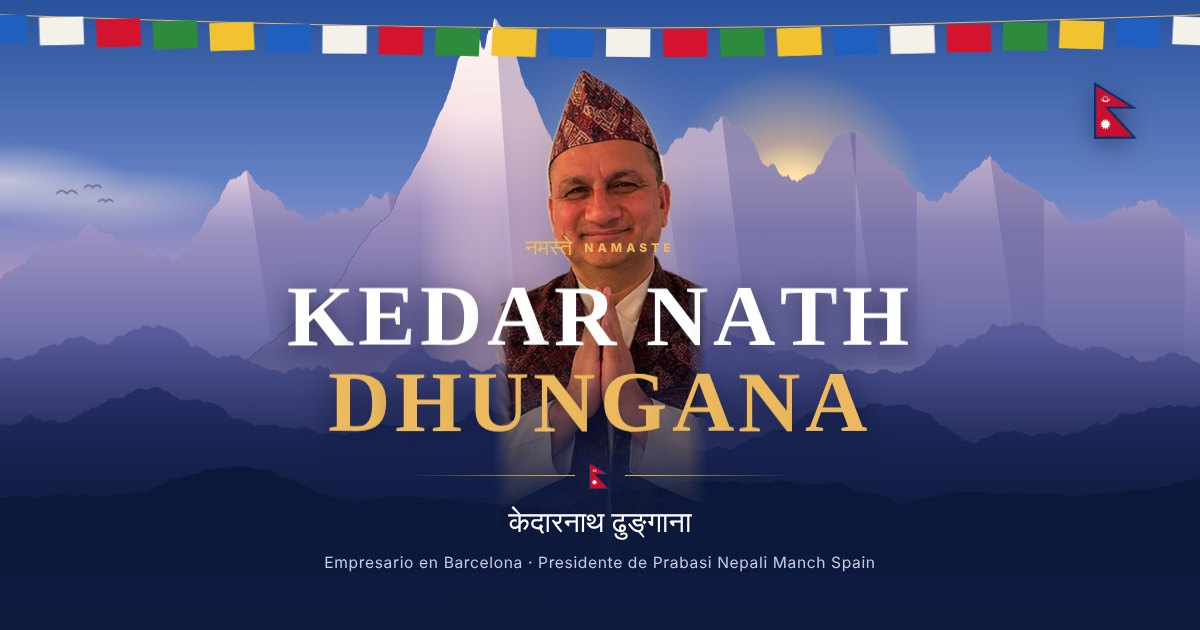
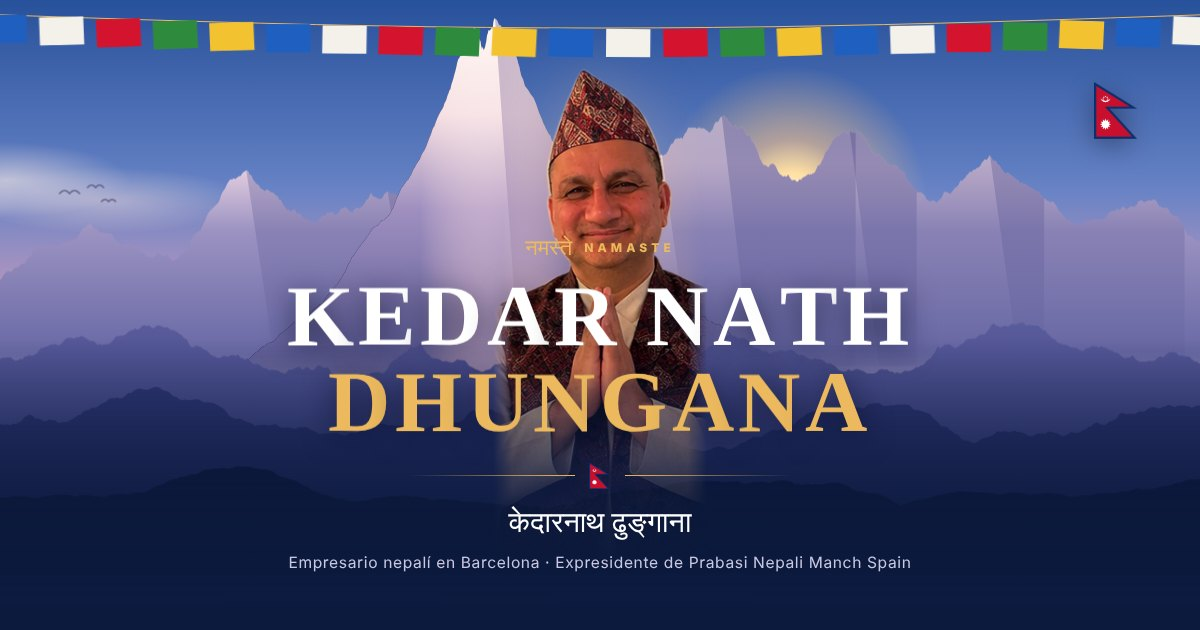
Add files via upload

Changed region(s): [[0.2467, 0.8746, 0.7708, 0.9048]]

diff --git a/index.html b/index.html
@@ -4,7 +4,7 @@
 <meta charset="utf-8">
 <meta name="viewport" content="width=device-width, initial-scale=1, viewport-fit=cover">
 <title>Kedar Nath Dhungana · Empresario nepalí en Barcelona</title>
-<meta name="description" content="Kedar Nath Dhungana, empresario nepalí en Barcelona: Supermercat Industria, Atithi, Aruku y Kobe. Presidente de Prabasi Nepali Manch Spain (Overseas Nepali Forum – Spain).">
+<meta name="description" content="Kedar Nath Dhungana, empresario nepalí en Barcelona: Supermercat Industria, Atithi, Aruku y Kobe. Expresidente de Prabasi Nepali Manch Spain (Overseas Nepali Forum – Spain).">
 <meta name="theme-color" content="#0b1a3d">
 <meta name="color-scheme" content="light">
 <link rel="canonical" href="https://gatsbys-stocks.github.io/kedar-dhungana/">
@@ -14,7 +14,7 @@
 <meta property="og:type" content="profile">
 <meta property="og:locale" content="es_ES">
 <meta property="og:title" content="Kedar Nath Dhungana">
-<meta property="og:description" content="Empresario nepalí en Barcelona · Presidente de Prabasi Nepali Manch Spain">
+<meta property="og:description" content="Empresario nepalí en Barcelona · Propietario de Buddha Bhumi · Expresidente de Prabasi Nepali Manch Spain">
 <meta property="og:url" content="https://gatsbys-stocks.github.io/kedar-dhungana/">
 <meta property="og:image" content="https://gatsbys-stocks.github.io/kedar-dhungana/img/og-kedar.jpg">
 <meta property="og:image:width" content="1200">
@@ -37,6 +37,10 @@
   "url": "https://gatsbys-stocks.github.io/kedar-dhungana/",
   "image": "https://gatsbys-stocks.github.io/kedar-dhungana/img/kedar.webp",
   "jobTitle": "Empresario",
+  "sameAs": [
+    "https://www.instagram.com/kndhungana/",
+    "https://www.tiktok.com/@kedardhungana4"
+  ],
   "email": "mailto:kndhungana2017@gmail.com",
   "telephone": "+34632787457",
   "homeLocation": {
@@ -55,7 +59,7 @@
     {
       "@type": "Organization",
       "name": "Prabasi Nepali Manch Spain (Overseas Nepali Forum – Spain)",
-      "roleName": "Presidente"
+      "roleName": "Expresidente"
     },
     {
       "@type": "Organization",
@@ -149,7 +153,7 @@
 <polygon points="25.00,80.00 26.94,84.76 31.00,81.61 30.30,86.70 35.39,86.00 32.24,90.06 37.00,92.00 32.24,93.94 35.39,98.00 30.30,97.30 31.00,102.39 26.94,99.24 25.00,104.00 23.06,99.24 19.00,102.39 19.70,97.30 14.61,98.00 17.76,93.94 13.00,92.00 17.76,90.06 14.61,86.00 19.70,86.70 19.00,81.61 23.06,84.76" fill="#fff"/>
 </svg></div>
       <div class="deva-name deva" id="devaName">केदारनाथ ढुङ्गाना</div>
-      <p class="tagline" id="tagline">Empresario en Barcelona · Presidente de Prabasi Nepali Manch Spain</p>
+      <p class="tagline" id="tagline">Empresario nepalí en Barcelona · Expresidente de Prabasi Nepali Manch Spain</p>
     </div>
     <div class="scroll-hint" id="hint">Desliza<i></i></div>
   </div>
@@ -161,7 +165,7 @@
       <div class="kicker"><svg viewBox="0 0 26 14" aria-hidden="true"><path d="M0 14 8 3l4 5 3-4 11 10Z" fill="currentColor"/><path d="M8 3 6 6h4ZM15 4l-1.6 2.1h3.2Z" fill="#fff" opacity=".85"/></svg>Sobre Kedar</div>
       <h2>De Pokhara a Barcelona</h2>
       <p class="lead">Kedar Nath Dhungana es un empresario nepalí afincado en Barcelona. Originario de Pokhara y formado en la Universidad Tribhuvan, hoy está al frente de cuatro locales en la ciudad: el supermercado nepalí Supermercat Industria, el restaurante indio Atithi y los restaurantes japoneses sin gluten Aruku y Kobe.</p>
-      <p class="lead">Es además presidente de Prabasi Nepali Manch Spain (Overseas Nepali Forum – Spain) y expresidente de Kaski Samaj Spain, y comparte a diario contenido sobre la cultura y la comunidad nepalí en España.</p>
+      <p class="lead">En la comunidad nepalí ha sido presidente de Prabasi Nepali Manch Spain (Overseas Nepali Forum – Spain) y de Kaski Samaj Spain. En TikTok e Instagram comparte a diario contenido sobre la cultura y la comunidad nepalí en España.</p>
     </div>
     <dl class="facts reveal">
       <div class="fact"><dt>Ciudad</dt><dd>Barcelona, España</dd></div>
@@ -200,7 +204,7 @@
     </div>
     <div class="community">
       <article class="comm reveal">
-        <div class="role">Presidente</div>
+        <div class="role">Expresidente</div>
         <h3>Prabasi Nepali Manch Spain</h3>
         <div class="sub">Overseas Nepali Forum – Spain · Fundado en 2007</div>
         <div class="deva">प्रवासी नेपाली मञ्च स्पेन</div>
@@ -223,6 +227,10 @@
       <h2>Hablemos</h2>
       <ul class="cinfo" id="contactoInfo"><!-- js/config.js → CONTACTO --></ul>
       <div class="btns" id="contactoBotones"></div>
+      <div class="redes">
+        <div class="kicker redes-k">Síguele en redes</div>
+        <div class="redes-list" id="redes"><!-- js/config.js → REDES --></div>
+      </div>
     </div>
   </div>
 </section>

diff --git a/js/main.js b/js/main.js
@@ -22,6 +22,7 @@
     map: '<svg viewBox="0 0 24 24" fill="none" stroke="currentColor" stroke-width="2" aria-hidden="true"><path d="M21 10c0 7-9 13-9 13S3 17 3 10a9 9 0 0 1 18 0z"/><circle cx="12" cy="10" r="3"/></svg>',
     mail: '<svg viewBox="0 0 24 24" fill="none" stroke="currentColor" stroke-width="2" aria-hidden="true"><rect x="3" y="5" width="18" height="14" rx="2"/><path d="m3 7 9 6 9-6"/></svg>',
     wa: '<svg viewBox="0 0 24 24" fill="currentColor" aria-hidden="true"><path d="M12 2a10 10 0 0 0-8.6 15.1L2 22l5-1.3A10 10 0 1 0 12 2zm0 18.2c-1.5 0-3-.4-4.3-1.2l-.3-.2-3 .8.8-2.9-.2-.3A8.2 8.2 0 1 1 12 20.2zm4.5-6.1c-.2-.1-1.5-.7-1.7-.8-.2-.1-.4-.1-.6.1l-.8 1c-.1.2-.3.2-.5.1a6.7 6.7 0 0 1-3.3-2.9c-.3-.4.2-.4.7-1.3.1-.2 0-.3 0-.4l-.8-1.8c-.2-.5-.4-.4-.6-.4h-.5c-.2 0-.4.1-.7.3-.2.3-.9.9-.9 2.2s.9 2.5 1 2.7c.1.2 1.8 2.8 4.4 3.9 1.6.7 2.3.8 3.1.6.5-.1 1.5-.6 1.7-1.2.2-.6.2-1.1.2-1.2-.1-.1-.2-.2-.5-.3z"/></svg>',
+    tt: '<svg viewBox="0 0 24 24" fill="currentColor" aria-hidden="true"><path d="M16.6 5.8A4.3 4.3 0 0 1 15.5 3h-3.1v12.4a2.6 2.6 0 1 1-2.6-2.6c.3 0 .5 0 .8.1V9.7a5.8 5.8 0 0 0-.8-.1 5.8 5.8 0 1 0 5.8 5.8V9.1a7.4 7.4 0 0 0 4.3 1.4V7.4a4.3 4.3 0 0 1-3.3-1.6z"/></svg>',
     fb: '<svg viewBox="0 0 24 24" fill="currentColor" aria-hidden="true"><path d="M13.5 22v-8h2.7l.4-3.2h-3.1V8.8c0-.9.3-1.5 1.6-1.5h1.7V4.4c-.3 0-1.3-.1-2.5-.1-2.4 0-4.1 1.5-4.1 4.2v2.3H7.5V14h2.7v8h3.3z"/></svg>'
   };
 
@@ -74,13 +75,27 @@
       lineas.push(`<li>${ICON.mail}<a href="mailto:${esc(c.email)}">${esc(c.email)}</a></li>`);
       botones.push(`<a class="btn ghost" href="mailto:${esc(c.email)}">${ICON.mail}Email</a>`);
     }
-    if (c.facebook) botones.push(`<a class="btn ghost" href="${esc(c.facebook)}" ${externo}>${ICON.fb}Facebook</a>`);
     if (info) info.innerHTML = lineas.join("");
     if (btns) btns.innerHTML = botones.join("");
   }
 
+  /* ---------- 1c. Redes ---------- */
+  function pintarRedes() {
+    const caja = $("redes");
+    if (!caja || typeof REDES === "undefined") return;
+    const r = REDES, items = [];
+    const limpio = (u) => String(u).trim().replace(/^@/, "");
+    if (r.tiktok) items.push(`<a class="red red-tt" href="https://www.tiktok.com/@${esc(limpio(r.tiktok))}" ${externo}>${ICON.tt}<span><b>TikTok</b>@${esc(limpio(r.tiktok))}</span></a>`);
+    if (r.instagram) items.push(`<a class="red red-ig" href="https://www.instagram.com/${esc(limpio(r.instagram))}/" ${externo}>${ICON.ig}<span><b>Instagram</b>@${esc(limpio(r.instagram))}</span></a>`);
+    const fb = r.facebook || (typeof CONTACTO !== "undefined" && CONTACTO.facebook);
+    if (fb) items.push(`<a class="red red-fb" href="${esc(fb)}" ${externo}>${ICON.fb}<span><b>Facebook</b>Kedar Dhungana</span></a>`);
+    caja.innerHTML = items.join("");
+    if (!items.length) caja.parentElement.hidden = true;
+  }
+
   pintarLocales();
   pintarContacto();
+  pintarRedes();
 
   /* ---------- 2. Banderas de oración (lungta) ---------- */
   (function banderas() {

diff --git a/js/config.js b/js/config.js
@@ -9,8 +9,15 @@
 const CONTACTO = {
   telefono: "+34 632 787 457",          // como se ve en la web
   whatsapp: "34632787457",              // solo números, con prefijo 34
-  email:    "kndhungana2017@gmail.com",
-  facebook: ""                          // ej: "https://www.facebook.com/kedar.dhungana"
+  email:    "kndhungana2017@gmail.com"
+};
+
+/* Redes sociales de Kedar (bloque "Síguele en redes" de Contacto).
+   Pon solo el usuario, sin @. Si se deja vacío, esa red no sale. */
+const REDES = {
+  tiktok:    "kedardhungana4",
+  instagram: "kndhungana",
+  facebook:  ""                         // enlace completo de su perfil o página
 };
 
 /* Locales. Se pintan en este orden en la sección "Negocios".
@@ -25,7 +32,7 @@ const LOCALES = [
     tipo: "Supermercado nepalí",
     nombre: "Supermercat Industria",
     nombreOriginal: "नेपाली सुपरमार्केट",
-    cargo: "Fundador · Administrador único",
+    cargo: "Propietario · Administrador único (Buddha Bhumi SL)",
     descripcion: "Alimentación nepalí, momos congelados, ollas a presión y arroceras, vaporeras para momos, bebidas y artículos de puja. Envíos desde Barcelona a otras ciudades de Europa.",
     direccion: "C/ Indústria, 124 · 08025 Barcelona",
     mapa: "Carrer de la Indústria 124, 08025 Barcelona",

diff --git a/css/styles.css b/css/styles.css
@@ -221,6 +221,19 @@ footer small{display:block;margin-top:10px;color:#8e93bd;font-size:12px;letter-s
 }
 .linfo a{color:inherit;text-decoration:none;overflow-wrap:anywhere}
 .linfo a:hover{color:var(--crimson)}
+/* Redes */
+.redes{margin-top:34px}
+.redes-k{font-size:11px;margin-bottom:12px}
+.redes-list{display:flex;flex-wrap:wrap;gap:12px}
+.red{display:flex;align-items:center;gap:12px;padding:12px 18px 12px 14px;border-radius:16px;text-decoration:none;color:#fff;
+  background:rgba(255,255,255,.1);border:1px solid rgba(255,255,255,.28);backdrop-filter:blur(6px);transition:transform .3s,background .3s}
+.red:hover{transform:translateY(-2px);background:rgba(255,255,255,.18)}
+.red svg{width:28px;height:28px;flex:none;padding:6px;border-radius:9px;box-sizing:content-box}
+.red span{display:flex;flex-direction:column;line-height:1.25;font-size:14px;font-weight:600}
+.red b{font-size:11px;letter-spacing:.18em;text-transform:uppercase;color:var(--gold);font-weight:800}
+.red-tt svg{background:#000;color:#fff}
+.red-ig svg{background:linear-gradient(45deg,#f9a13a,#e1306c 50%,#833ab4);color:#fff}
+.red-fb svg{background:#1877f2;color:#fff}
 /* Pie */
 footer .legal{display:block;margin-top:18px;color:#6d729d;font-size:11.5px;letter-spacing:.06em}
 /* Accesibilidad: foco visible */

diff --git a/README.md b/README.md
@@ -1,10 +1,10 @@
 # Kedar Nath Dhungana
 
-Web de presentación de **Kedar Nath Dhungana**, empresario nepalí en Barcelona y presidente de Prabasi Nepali Manch Spain (Overseas Nepali Forum – Spain). Es un enlace para compartir: quien lo abre ve quién es, qué locales tiene y cómo contactarle.
+Web de presentación de **Kedar Nath Dhungana**, empresario nepalí en Barcelona, propietario de Buddha Bhumi y expresidente de Prabasi Nepali Manch Spain (Overseas Nepali Forum – Spain). Es un enlace para compartir: quien lo abre ve quién es, qué locales tiene y cómo contactarle.
 
 ## El problema que resolví
 
-Kedar tiene cuatro locales en Barcelona y un cargo en la comunidad nepalí, pero todo estaba repartido en tarjetas de visita, Facebook y registros de empresas. Necesitaba un solo enlace profesional que se pudiera mandar por WhatsApp y que reuniera su perfil, sus negocios y su contacto, con una entrada que se recuerde.
+Kedar tiene cuatro locales en Barcelona y un cargo en la comunidad nepalí, pero todo estaba repartido en tarjetas de visita, TikTok, Instagram, Facebook y registros de empresas. Necesitaba un solo enlace profesional que se pudiera mandar por WhatsApp y que reuniera su perfil, sus negocios y su contacto, con una entrada que se recuerde.
 
 ## Qué hice
 
@@ -12,8 +12,8 @@ Kedar tiene cuatro locales en Barcelona y un cargo en la comunidad nepalí, pero
 - **Animación suave**: el scroll marca el destino y la animación lo sigue con suavidad, así que no da saltos aunque se baje rápido.
 - **Sobre Kedar**: origen, formación y trayectoria.
 - **Negocios**: Supermercat Industria, Atithi, Aruku y Kobe, cada uno con su color, dirección, teléfonos y botones de WhatsApp, Web, Instagram, Llamar y Cómo llegar (Google Maps).
-- **Comunidad**: Prabasi Nepali Manch Spain y Kaski Samaj Spain.
-- **Contacto**: WhatsApp, llamada y email directos.
+- **Comunidad**: expresidente de Prabasi Nepali Manch Spain y de Kaski Samaj Spain.
+- **Contacto y redes**: WhatsApp, llamada y email directos, y enlaces a su TikTok (@kedardhungana4) e Instagram (@kndhungana).
 - **Vista previa al compartir**: imagen y texto propios cuando se pega el enlace en WhatsApp o Facebook.
 - **Datos para Google** (`schema.org/Person`): nombre, cargo y locales para que los buscadores le identifiquen.
 
@@ -35,7 +35,8 @@ Kedar tiene cuatro locales en Barcelona y un cargo en la comunidad nepalí, pero
 ## Cambiar datos
 
 - **Añadir, quitar o editar un local**: `js/config.js` → `LOCALES`. Cada local es un bloque `{ ... }`; un campo vacío (`""`) no se muestra.
-- **Teléfono, email o Facebook de Kedar**: `js/config.js` → `CONTACTO`. Si `facebook` tiene enlace, sale su botón.
+- **Teléfono y email de Kedar**: `js/config.js` → `CONTACTO`.
+- **Redes (TikTok, Instagram, Facebook)**: `js/config.js` → `REDES`. Solo el usuario, sin @; Facebook con el enlace completo. Si una se deja vacía, no sale.
 - **Velocidad de la animación**: `js/config.js` → `SUAVIDAD`. La longitud del recorrido está en `css/styles.css` → `#intro { height: 420vh }`.
 - **Textos de "Sobre Kedar" y "Comunidad"**: directamente en `index.html`.
 
